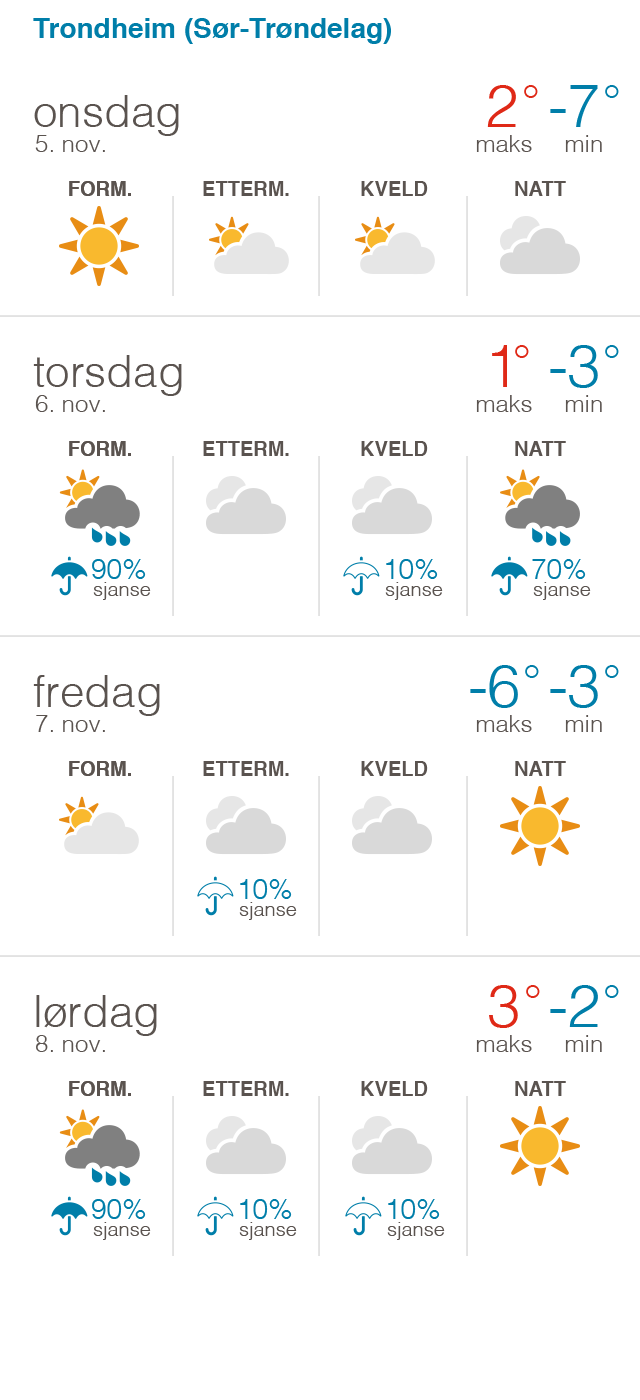
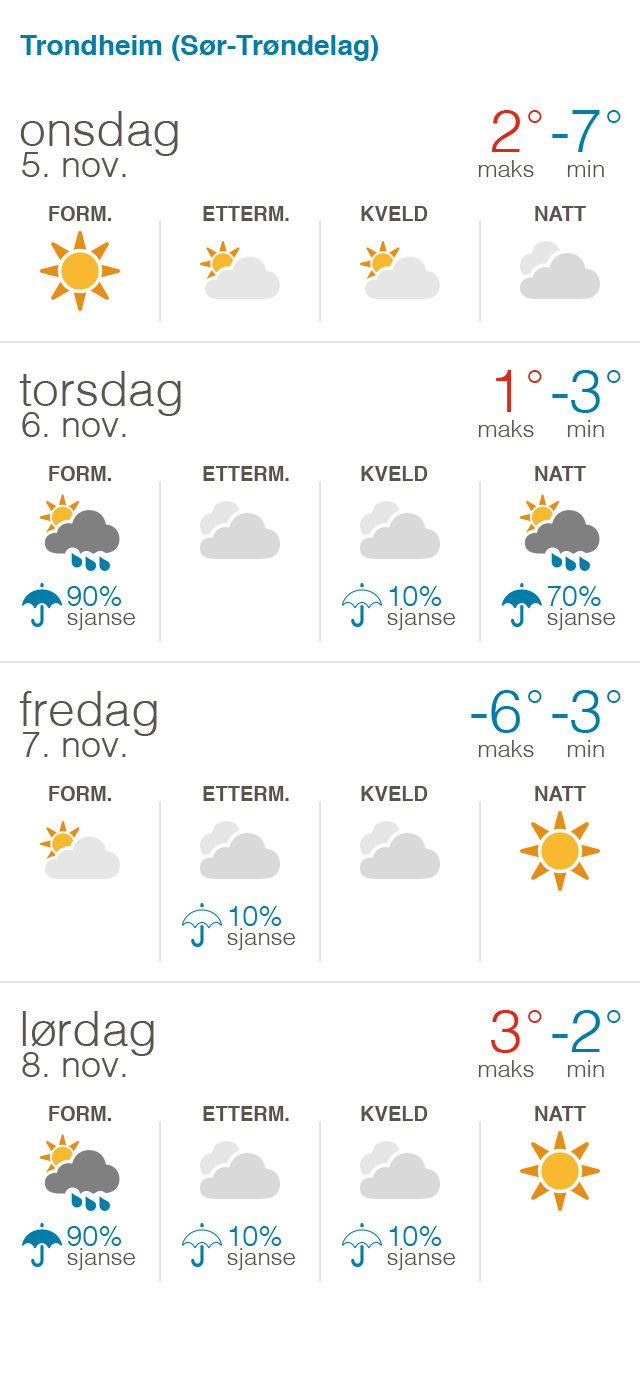
Updated pages (font sizes in concept images)

diff --git a/index.html b/index.html
@@ -12,7 +12,7 @@
 	<script src="js/d3.min.js"></script>
 	<script src="js/main.js"></script>
   	
-	<title>Yr.no</title>
+	<title>yr.no</title>
 	<meta name="description" content="yr prototype">
 	<meta name="author" content="Richard Park Sneesby">
 	<meta name="keywords" content="yr prototype">
@@ -164,7 +164,7 @@
 			</div>
 			
 	    	<div id="concept-prognosis" class="concept-holder">
-		    	<img src="images/con_shortterm1.png"/>
+		    	<!--<img src="images/con_shortterm1.png"/>-->
 		    	<img src="images/con_shortterm2.png"/>
 			</div>
 			

diff --git a/css/main.css b/css/main.css
@@ -102,9 +102,9 @@ input:focus[type="text"], input:focus[type="search"] {
 	width:320px;
 }
 .geo-searching-msg {
-	font-weight: 200;
+	font-weight: 300;
 	padding-top: 20px;
-	font-size: 1.2em;
+	font-size: 1.4em;
 	text-align: center;
 	font-style: italic;
 }
